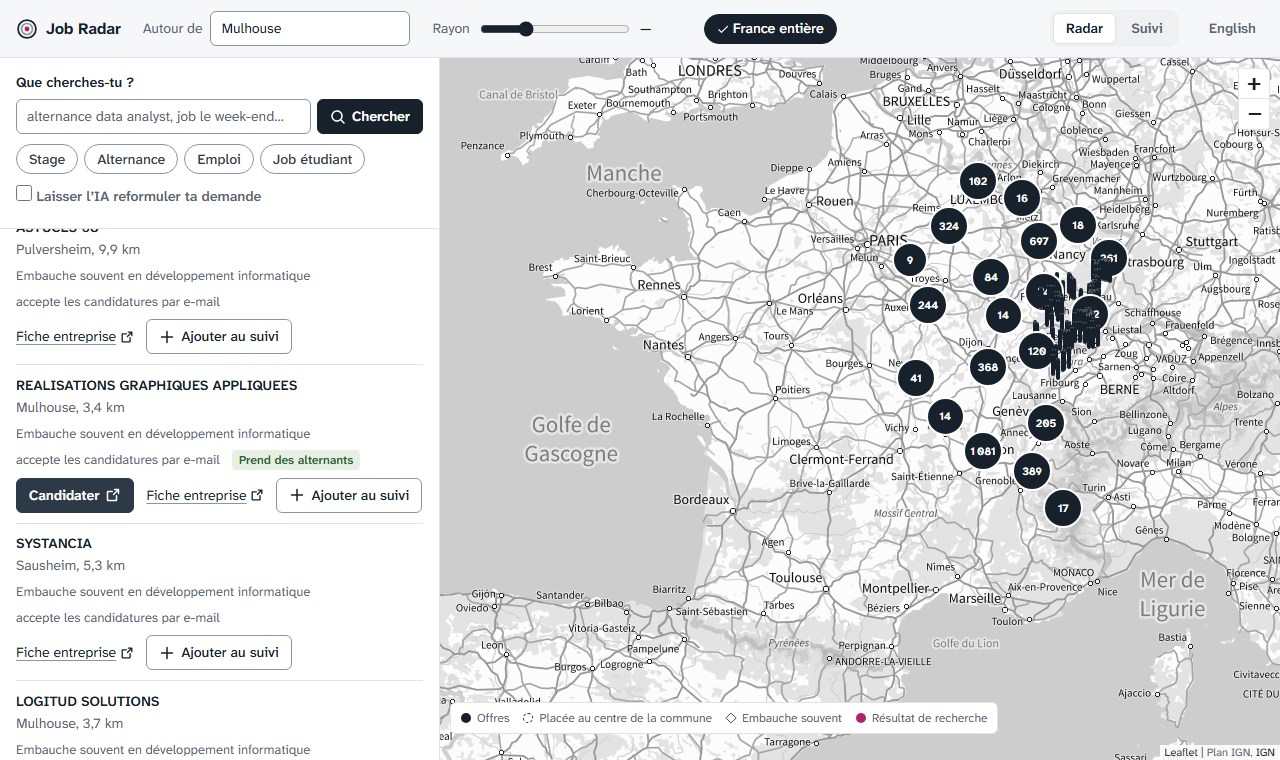
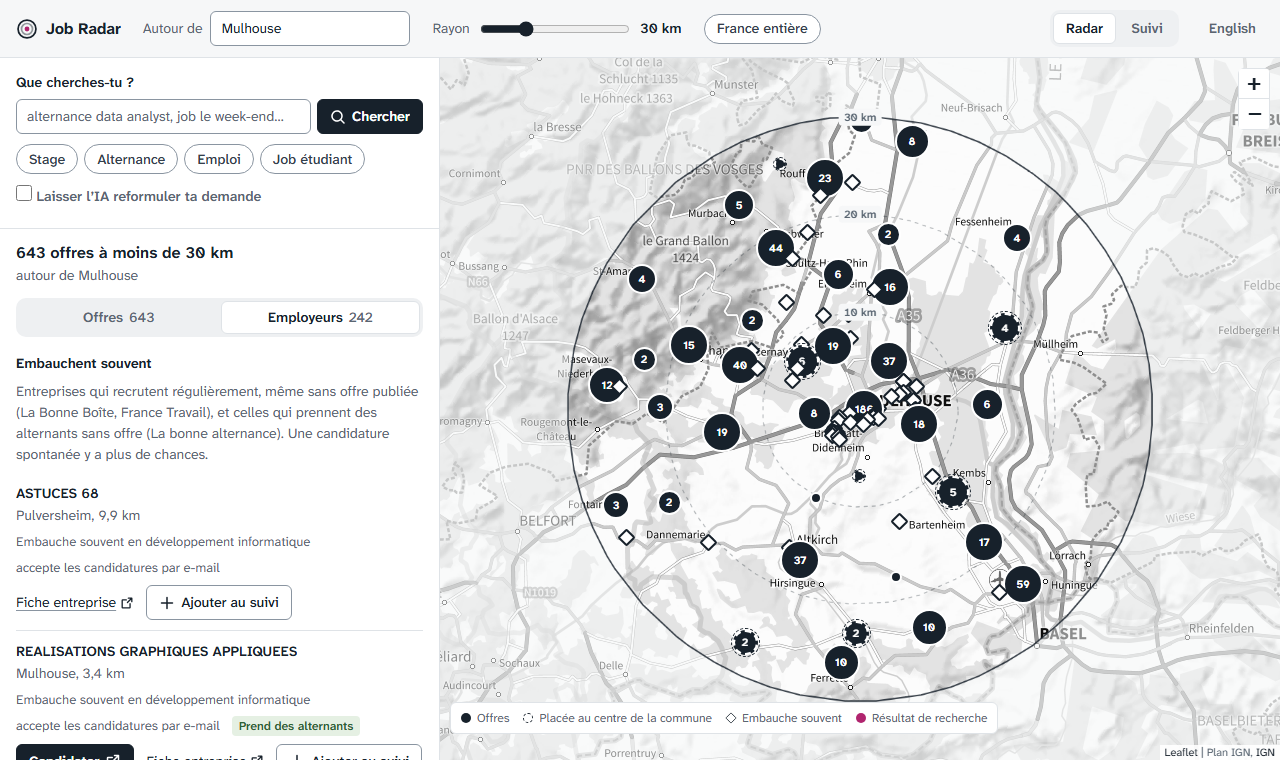
Draw the hiring diamonds as blocks so they stop rendering as vertical bars, and retake the employers screenshot at 30 km
The marker span was inline, so its size and rotation were ignored.

diff --git a/src/job_radar/web/static/style.css b/src/job_radar/web/static/style.css
@@ -411,7 +411,7 @@ a.row:hover, .row.hover { background: var(--surface-2); color: inherit; }
 .pin.dot { width: 12px; height: 12px; margin: 5px; font-size: 0; } /* a 22px hit area around a 12px dot */
 .pin.dot.approx { outline-offset: 0; }
 .hiring-pin {
-  width: 100%; height: 100%; transform: rotate(45deg); border-radius: 2px;
+  display: block; width: 100%; height: 100%; transform: rotate(45deg); border-radius: 2px;
   background: var(--surface); border: 2px solid var(--ink); cursor: pointer; transition: transform 160ms var(--ease);
 }
 .pin-icon:hover > .hiring-pin { transform: rotate(45deg) scale(1.15); }
